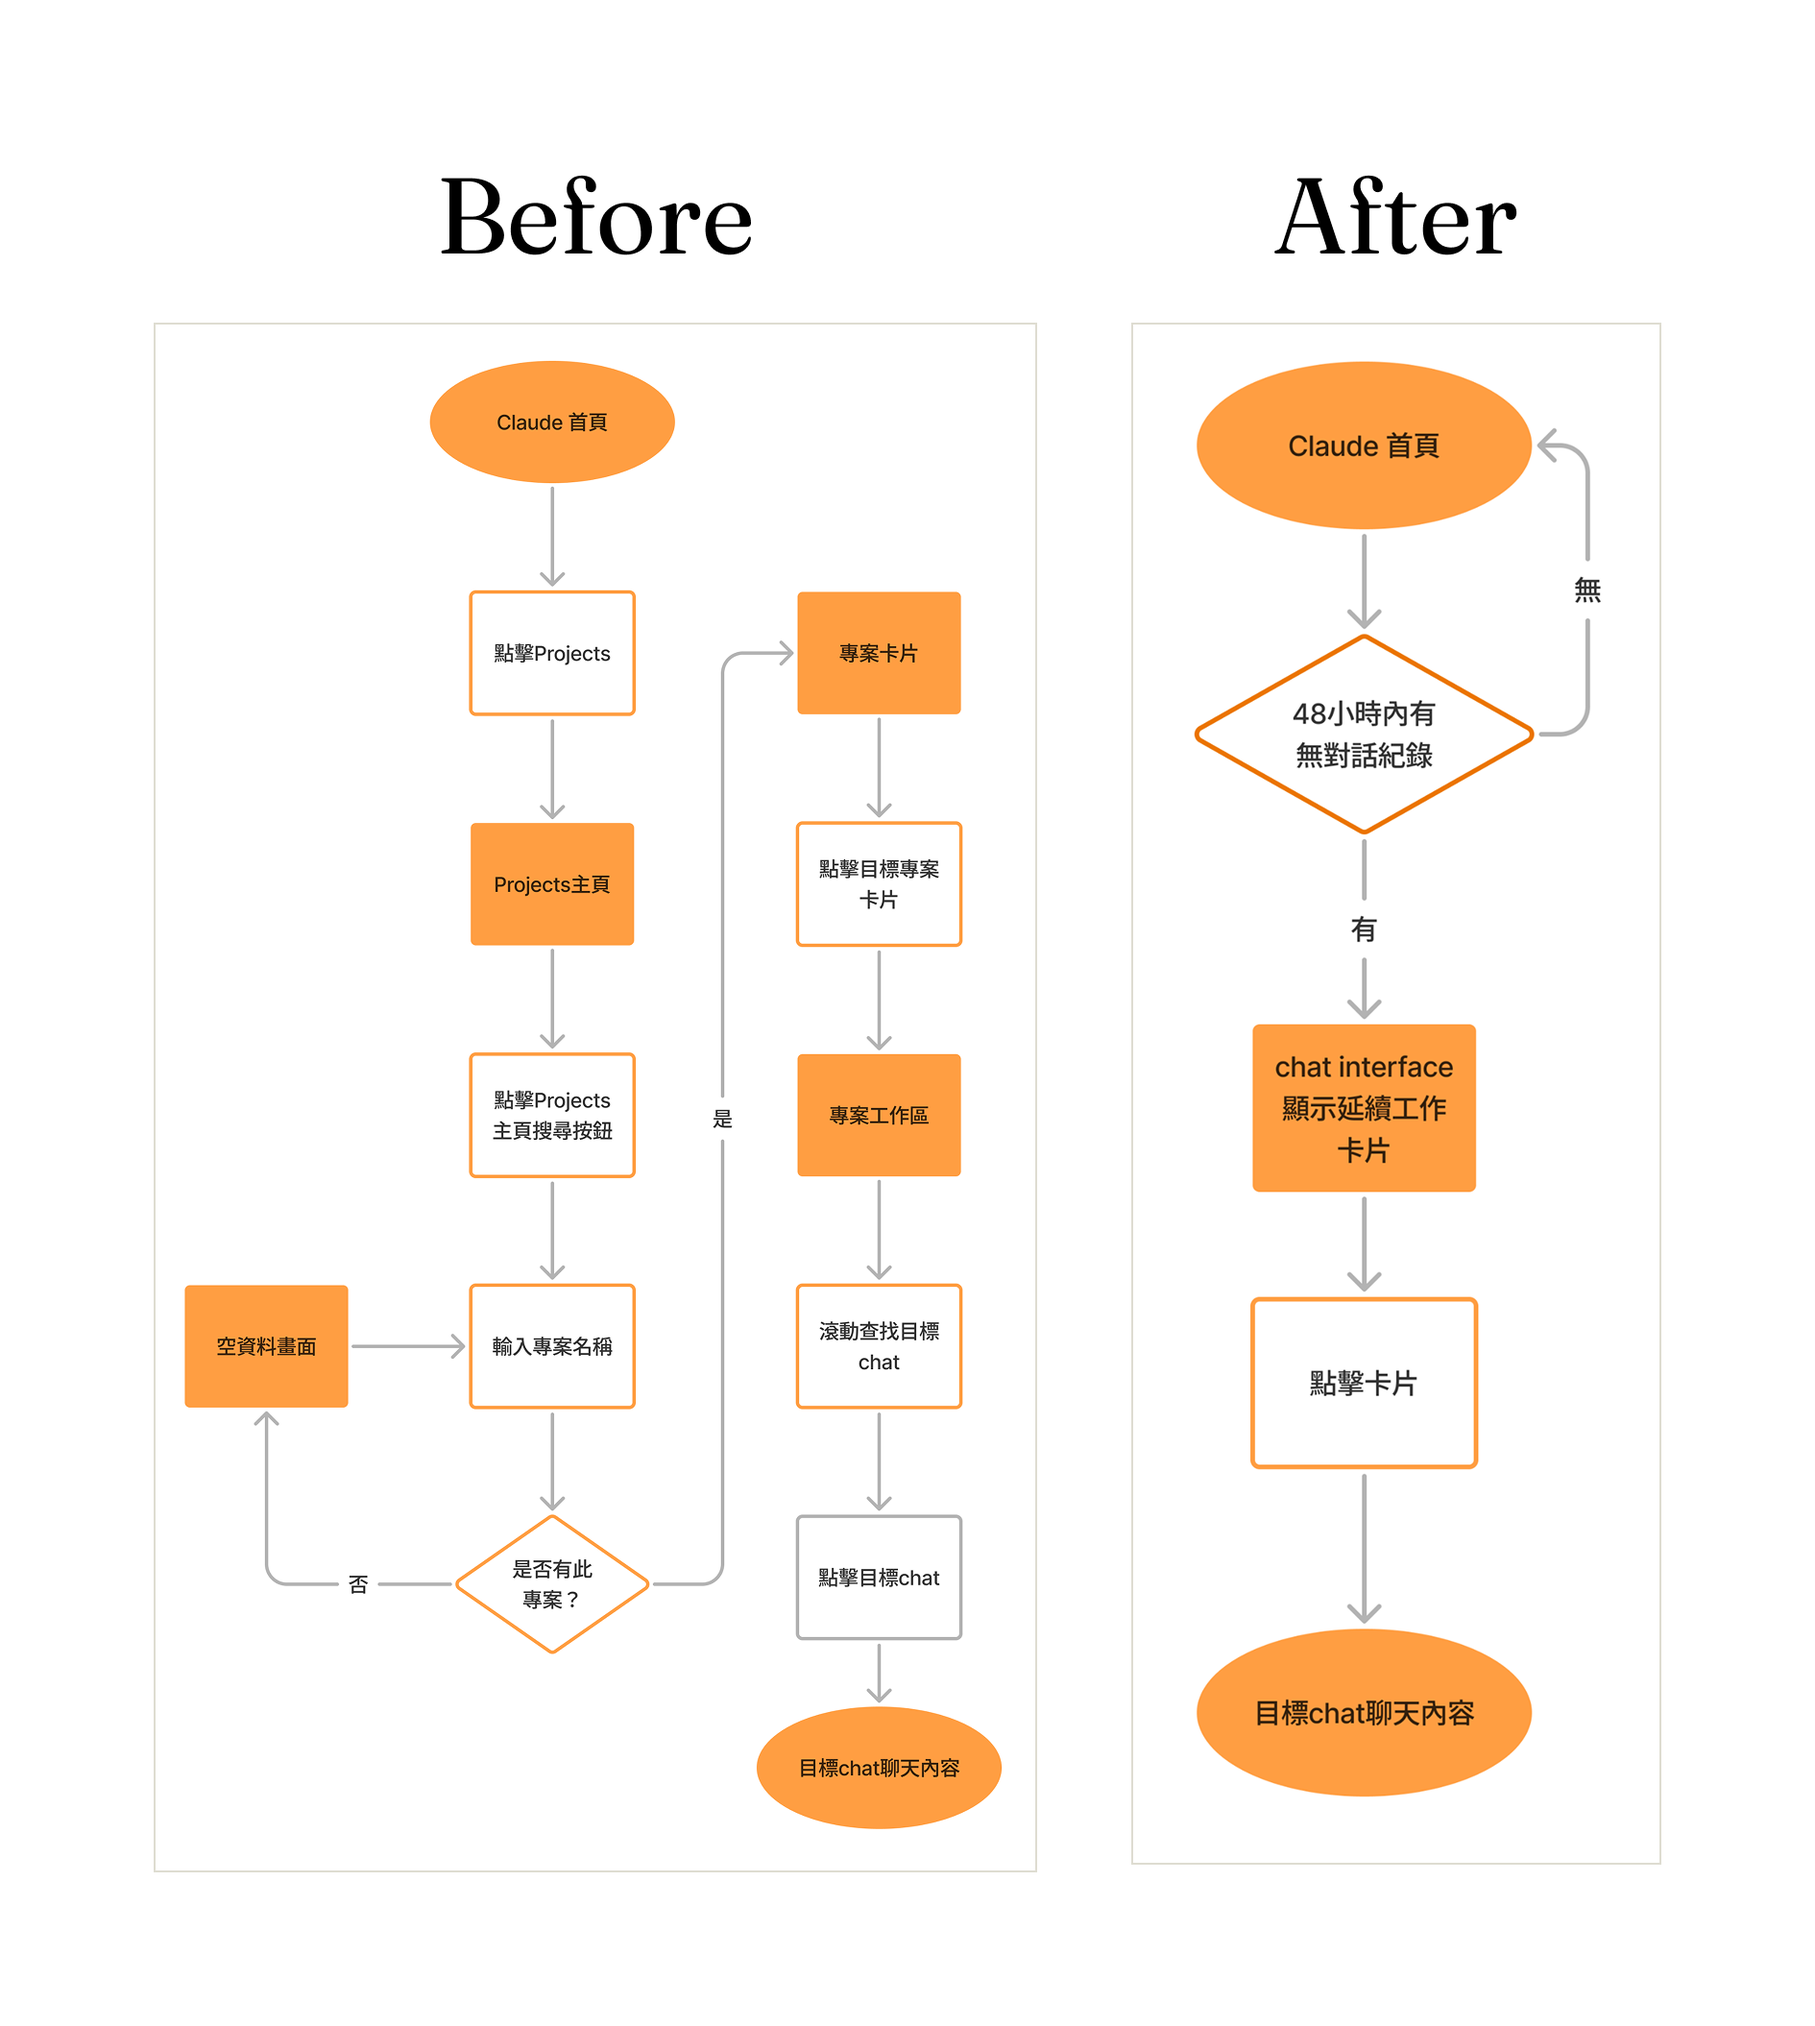
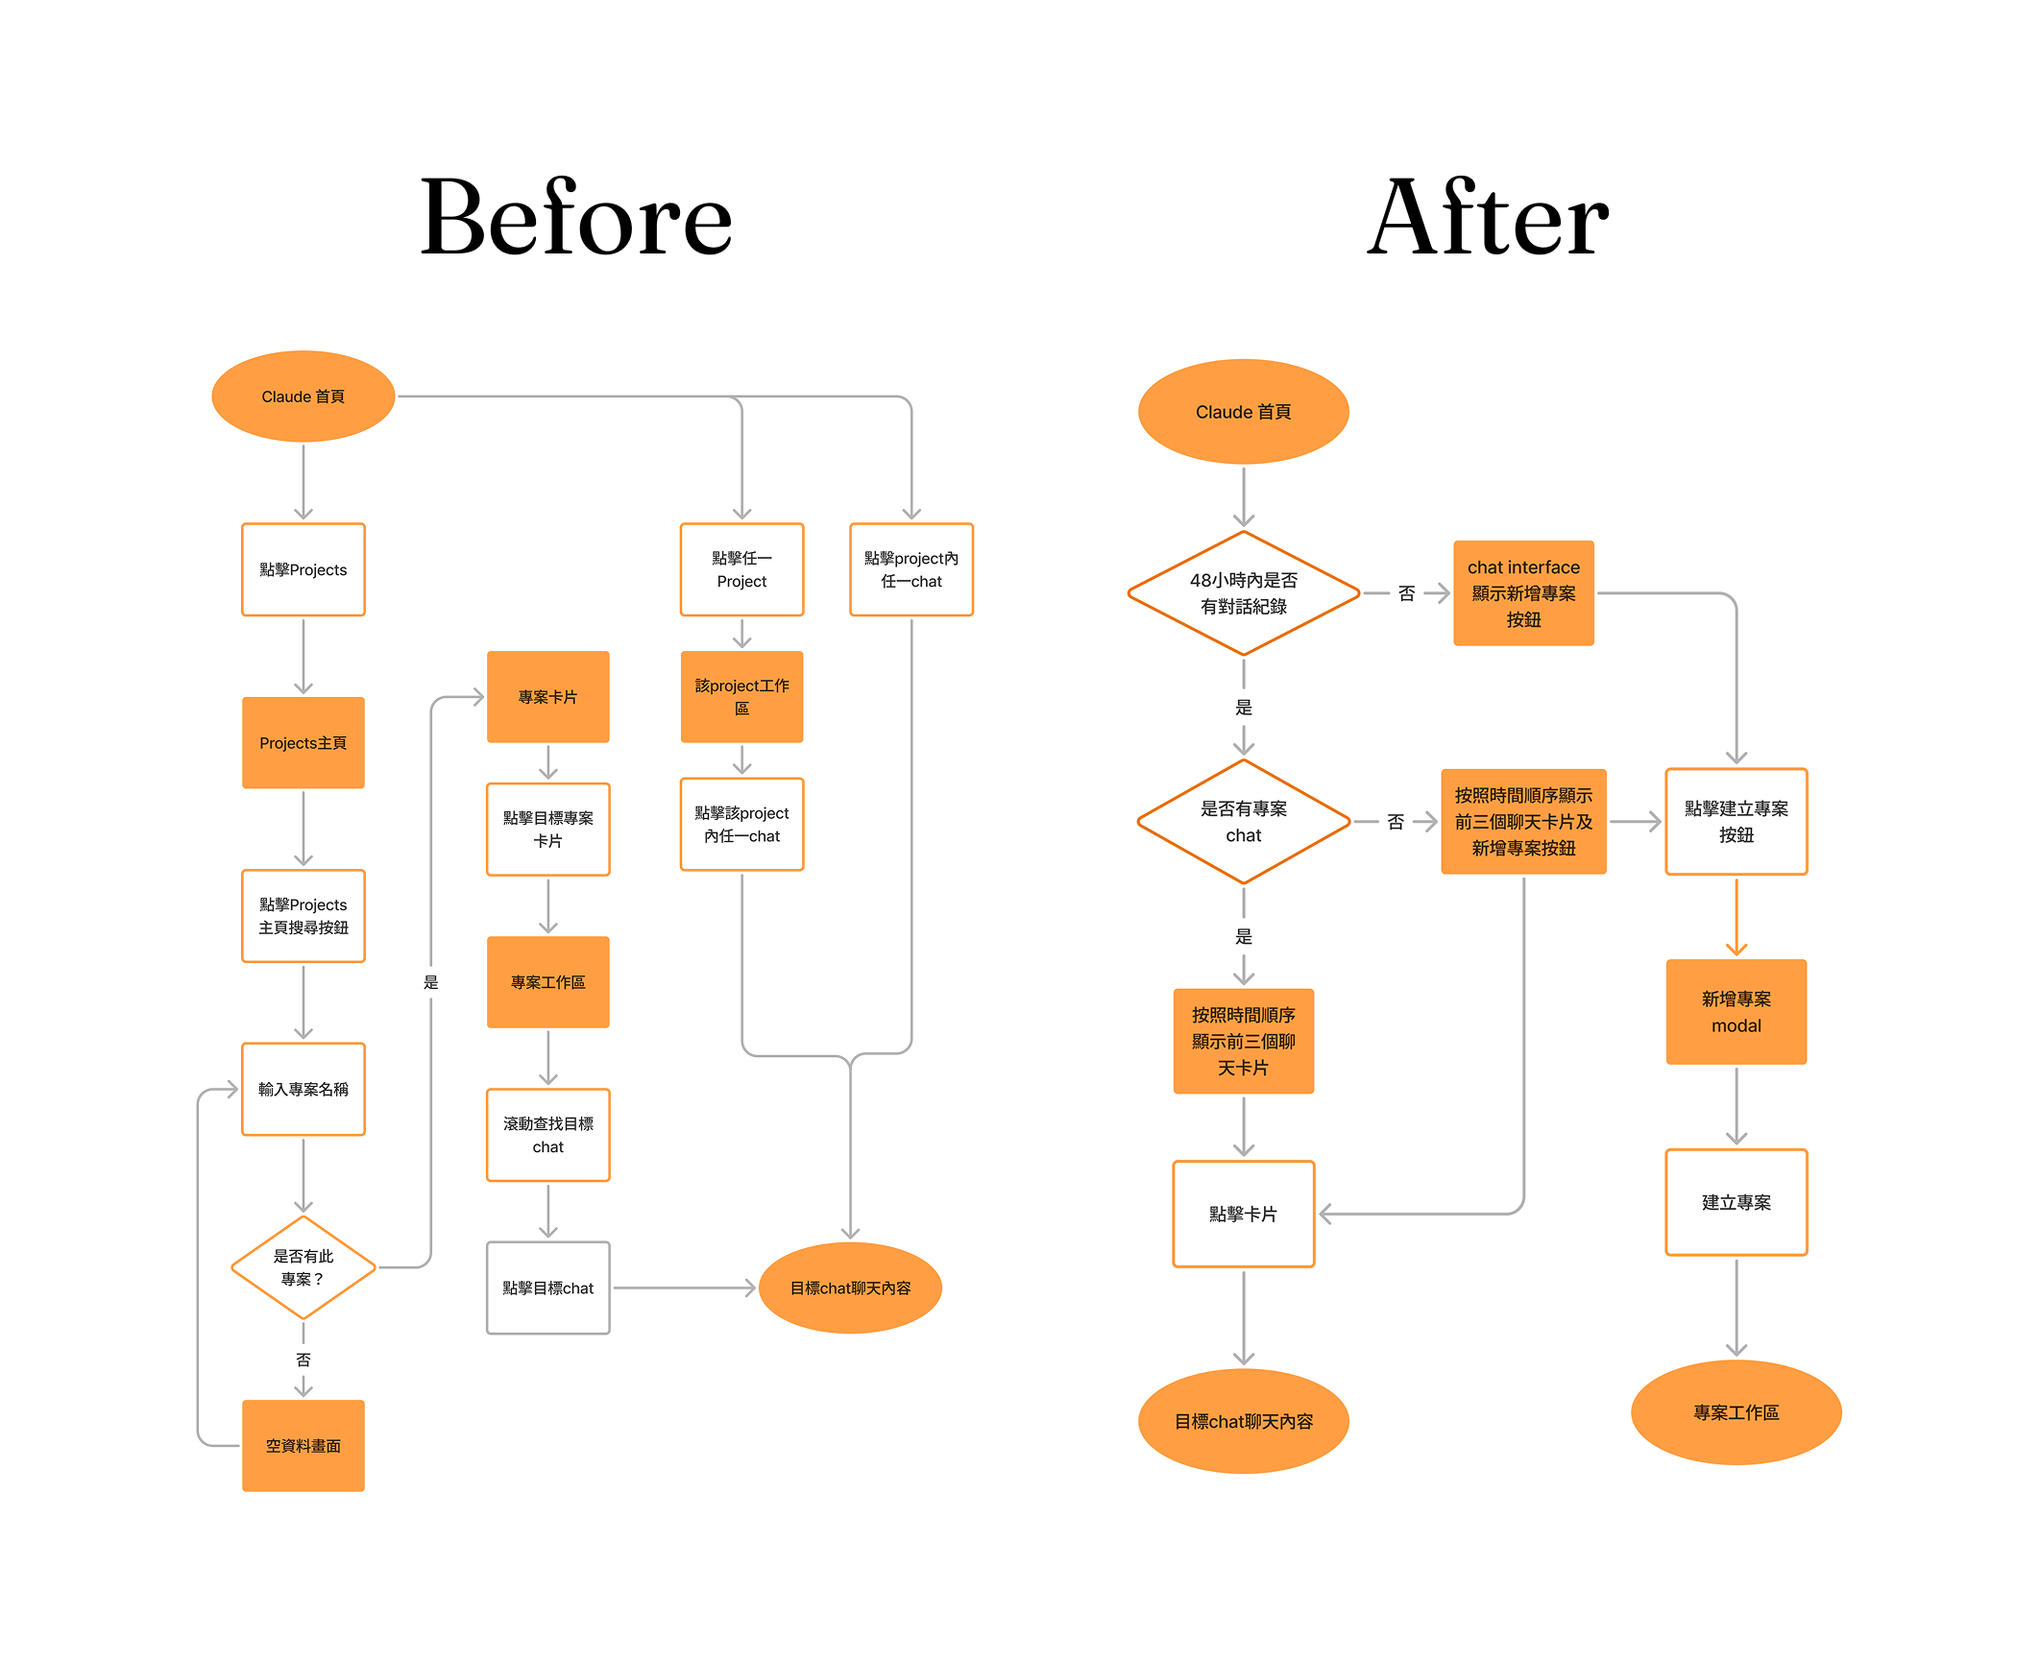
edit 3.4: rename side-panel 設計取捨 to 設計決策

diff --git a/index.html b/index.html
@@ -21,6 +21,7 @@
   --neutral-0:#FFFFFF;  --neutral-50:#FAF9F5; --neutral-100:#F2F0EA;
   --neutral-150:#ECEAE4;--neutral-300:#DEDCD1;--neutral-400:#949390;
   --neutral-600:#63625F;--neutral-900:#141413;--neutral-950:#0F0C08;
+  --primary-fill:#0B0B0B; --primary-hover:#000000;
   --blue-soft:#74ABE2;  --blue-fill:#2C84DB;  --blue-hover:#256ABF;
   --green-tint:#F2F8EA; --green-fill:#4A7B00;
   --red-tint:#F8ECEC;   --red-fill:#B93535;
@@ -36,8 +37,8 @@
   --text-primary:var(--neutral-900);
   --text-secondary:var(--neutral-600);
   --text-muted:var(--neutral-400);
-  --fill-accent:var(--blue-fill);
-  --fill-accent-hover:var(--blue-hover);
+  --fill-accent:var(--primary-fill);
+  --fill-accent-hover:var(--primary-hover);
   --text-accent:var(--blue-fill);
   --bg-accent-soft:var(--blue-soft);
   --bg-success:var(--green-tint);
@@ -545,28 +546,35 @@ hr.rule{border:none; border-top:1px solid var(--border); margin:40px 0;}
         <p class="t-body" style="margin-bottom:0;">以下素材已附上預覽，點擊預覽圖或「查看 Figma」按鈕可開啟 Figma 檔案查看完整內容。</p>
       </div>
 
-      <p class="sub t-heading" style="margin-bottom:0;">Before / After Flow Chart</p>
-      <figure class="fig tall">
-        <a class="frame" href="https://www.figma.com/board/4iiDqI47Yi5BGPhb3rloxF/super8?node-id=20-701&t=2xH6dvYUVHNuIrm4-1" target="_blank" rel="noopener">
-          <img src="assets/flow-before-after.png" alt="加入延續工作卡的 Before / After 流程圖：Before 需多層點擊尋找對話，After 由首頁延續工作卡片直接接續">
-        </a>
-        <figcaption><span class="cap t-body">加入延續工作卡 · Before / After Flow Chart</span><a class="figma-btn" href="https://www.figma.com/board/4iiDqI47Yi5BGPhb3rloxF/super8?node-id=20-701&t=2xH6dvYUVHNuIrm4-1" target="_blank" rel="noopener"><img class="ico" src="assets/figma_original.svg" alt="" aria-hidden="true" width="14" height="14">查看 Figma</a></figcaption>
-      </figure>
-
-      <p class="sub t-heading" style="margin-bottom:0;">設計取捨</p>
-      <ul class="tradeoff">
-        <li><strong>為什麼設定 48 小時？</strong>48 小時並非精確科學數字，是<strong>待驗證的初始假設起始值</strong>。設定門檻的目的是篩掉太舊、與「馬上要接續」無關的對話；48 小時涵蓋「今天回來」與「隔一天回來」兩種最常見的接續情境。上線後應以實際使用資料做 A/B 測試，重新校準這個數字。</li>
-        <li><strong>為什麼用時間排序、不用語意判斷？</strong>若改用語意判斷「這個任務是否已完成」，代表每次使用者打開首頁，系統都要重新爬過所有對話並跑一次推論——每一次都是一次額外的網路請求與推論時間，與「更容易開始一個任務」這個前提直接相違背。</li>
-        <li><strong>為什麼不分一般 Chat 還是 Project 內的 Chat？</strong>不預先假設或預測使用者會用哪種方式完成任務（一般聊天或是 Project 內聊天），統一用最後活動時間排序，保留設計彈性，也保留日後回測與調整的空間。</li>
-      </ul>
-
-      <p class="sub t-heading" style="margin-bottom:0;">首頁精稿（延續工作卡片）</p>
+      <p class="sub t-heading" style="margin-bottom:0;">延續工作卡片 UI</p>
       <figure class="fig">
         <a class="frame" href="https://www.figma.com/design/gBdJlyEcW9GNYL4Urf5Zmc/Assignment?node-id=49-1840&t=znqStOemTebuqfZd-1" target="_blank" rel="noopener">
           <img src="assets/core-ui.png" alt="claude.ai 首頁精稿：Sidebar 分組整併，主畫面上方加入「延續工作」卡片列，下方保留通用 chips">
         </a>
-        <figcaption><span class="cap t-body">首頁精稿 · core UI</span><a class="figma-btn" href="https://www.figma.com/design/gBdJlyEcW9GNYL4Urf5Zmc/Assignment?node-id=49-1840&t=znqStOemTebuqfZd-1" target="_blank" rel="noopener"><img class="ico" src="assets/figma_original.svg" alt="" aria-hidden="true" width="14" height="14">查看 Figma</a></figcaption>
+        <figcaption><span class="cap t-body">延續工作卡片精稿</span><a class="figma-btn" href="https://www.figma.com/design/gBdJlyEcW9GNYL4Urf5Zmc/Assignment?node-id=49-1840&t=znqStOemTebuqfZd-1" target="_blank" rel="noopener"><img class="ico" src="assets/figma_original.svg" alt="" aria-hidden="true" width="14" height="14">查看 Figma</a></figcaption>
       </figure>
+      <ul class="tradeoff">
+        <li><strong>視覺引導</strong><br>讓 chat interface 與 side panel 之間有明顯的顏色落差，透過 chat composer 較高明度的背景色，將使用者的視覺自然引導到「該從這裡開始工作」。</li>
+        <li><strong>延續工作卡片</strong><br>Chat composer 上方加入三張延續工作卡片，提供快速延續工作的入口，點擊後直接前往對應的對話。</li>
+        <li><strong>情境式引導</strong><br>三張卡片下方顯示 Project 功能引導文案；若卡片中已包含屬於 Project 的對話，則不顯示，讓引導文案只在真正需要的情境下出現。</li>
+      </ul>
+
+      <p class="sub t-heading" style="margin-bottom:0;">Before / After Flow Chart</p>
+      <figure class="fig tall">
+        <a class="frame" href="https://www.figma.com/board/4iiDqI47Yi5BGPhb3rloxF/super8?node-id=20-702&t=uwOnSeeDaUhTME2b-1" target="_blank" rel="noopener">
+          <img src="assets/flow-before-after.png" alt="加入延續工作卡的 Before / After 流程圖：Before 需多層點擊尋找對話，After 由首頁延續工作卡片直接接續">
+        </a>
+        <figcaption><span class="cap t-body">迭代前後使用者進入 Project 功能流程</span><a class="figma-btn" href="https://www.figma.com/board/4iiDqI47Yi5BGPhb3rloxF/super8?node-id=20-702&t=uwOnSeeDaUhTME2b-1" target="_blank" rel="noopener"><img class="ico" src="assets/figma_original.svg" alt="" aria-hidden="true" width="14" height="14">查看 Figma</a></figcaption>
+      </figure>
+
+      <p class="sub t-heading" style="margin-bottom:0;">設計決策</p>
+      <ul class="tradeoff">
+        <li><strong>建立情境，再引導使用者接觸功能</strong><br>現有設計雖然已經有一步進入 Project 內任一對話的路徑——左側 side panel 第一層即會展開該 Project 底下所有對話——但並沒有把 Project 這個核心功能放在適當的情境下呈現給使用者。如果使用者不曾主動探索或理解這個功能，接觸到它的機會其實不高。因此，我的設計順序是先建立「快速延續工作」的情境，再讓使用者在這個情境裡自然接觸到 Project 功能：具體做法是在 chat interface 放入延續工作卡片，建立起「快速回顧近期工作」的情境，接著在同一區塊加入引導文案與按鈕，順勢引導使用者進一步認識並使用 Project 功能。</li>
+        <li><strong>Project 引導文案的顯示時機</strong><br>若卡片中已經有任一則屬於 Project 的對話，代表使用者已經知道 Project 這個功能，引導文案不顯示。這個判斷避免對已經熟悉 Project 的使用者重複教育，也讓這個引導元件只在真正有效的情境（使用者尚未接觸過 Project）下出現，不會變成每次都存在、逐漸被使用者忽略的固定裝飾。</li>
+        <li><strong>為什麼設定 48 小時？</strong><br>48 小時並非精確科學數字，是<strong>待驗證的初始假設起始值</strong>。設定門檻的目的是篩掉太舊、與「馬上要接續」無關的對話；48 小時涵蓋「今天回來」與「隔一天回來」兩種最常見的接續情境。上線後應以實際使用資料做 A/B 測試，重新校準這個數字。</li>
+        <li><strong>為什麼用時間排序、不用語意判斷？</strong><br>若改用語意判斷「這個任務是否已完成」，代表每次使用者打開首頁，系統都要重新爬過所有對話並跑一次推論——每一次都是一次額外的網路請求與推論時間，與「更容易開始一個任務」這個前提直接相違背。</li>
+        <li><strong>為什麼不只顯示 Project 內的 Chat？</strong><br>不預先假設或預測使用者會用哪種方式完成任務（一般聊天或是 Project 內聊天），統一用最後活動時間排序，保留設計彈性，也保留日後回測與調整的空間。</li>
+      </ul>
 
       <h3 class="sub t-heading"><span class="no">3.4</span>資訊架構重構</h3>
       <div class="note-card">
@@ -580,13 +588,20 @@ hr.rule{border:none; border-top:1px solid var(--border); margin:40px 0;}
         <figcaption><span class="cap t-body">Before / After claude.ai Side Panel 資訊架構</span><a class="figma-btn" href="https://www.figma.com/board/4iiDqI47Yi5BGPhb3rloxF/super8?node-id=20-701&t=2xH6dvYUVHNuIrm4-1" target="_blank" rel="noopener"><img class="ico" src="assets/figma_original.svg" alt="" aria-hidden="true" width="14" height="14">查看 Figma</a></figcaption>
       </figure>
 
+      <p class="sub t-heading" style="margin-bottom:0;">設計決策</p>
+      <ul class="tradeoff">
+        <li><strong>扁平化資訊架構</strong><br>原本兩層架構（Home／Code 各自獨立、各帶一套子選單），改為單一層的扁平架構——預設即是 Chat／Cowork，並將 Design、Code 的入口放進 Sidebar，完整呈現四大功能並存的結構。同時，把「工作實際不發生在 chat interface」的功能（Design、Code）獨立出來，與 Chat／Cowork 做出區隔。</li>
+        <li><strong>釐清操作功能的歸屬</strong><br>在單一層架構下，New、Artifact、Scheduled 更明確地隸屬於 Chat／Cowork 的操作功能，讓 Sidebar 與 chat interface 之間的關係更清楚、更容易理解。</li>
+        <li><strong>視覺分區呈現三大群組</strong><br>在單層架構下，透過視覺間隔明確劃分出三個群組——操作功能（New、Artifact、Scheduled）、專案與一般聊天記錄列表、其他功能（Design、Code、Account menu）。</li>
+      </ul>
+
       <figure class="fig tall">
         <a class="frame" href="https://www.figma.com/design/gBdJlyEcW9GNYL4Urf5Zmc/Assignment?node-id=49-1840&t=znqStOemTebuqfZd-1" target="_blank" rel="noopener">
           <img src="assets/side-panel-before-after.png" alt="claude.ai Side Panel Redesign Mockup Before / After：Before 為現況扁平 Sidebar，After 加入 Projects/Chats and tasks 分組與 Home/Code 分頁的重整版面">
         </a>
         <figcaption><span class="cap t-body">Side Panel Redesign Mockup · Before / After</span><a class="figma-btn" href="https://www.figma.com/design/gBdJlyEcW9GNYL4Urf5Zmc/Assignment?node-id=49-1840&t=znqStOemTebuqfZd-1" target="_blank" rel="noopener"><img class="ico" src="assets/figma_original.svg" alt="" aria-hidden="true" width="14" height="14">查看 Figma</a></figcaption>
       </figure>
-      <p class="sub t-heading" style="margin-bottom:0;">設計取捨</p>
+      <p class="sub t-heading" style="margin-bottom:0;">設計決策</p>
       <ul class="tradeoff">
         <li><strong>主選單 Projects 入口拿掉，只留清單版本：</strong>清單版本本身已包含抵達 Project 總覽頁的功能，也直接支持「回訪使用者延續工作」這個目的，兩個入口保留其一即可，不需要重複</li>
         <li><strong>Customized 拿掉：</strong>與 Account 選單內的 Setting 功能重複，拿掉以保持 Sidebar 簡潔，不刪減任何實際功能</li>
